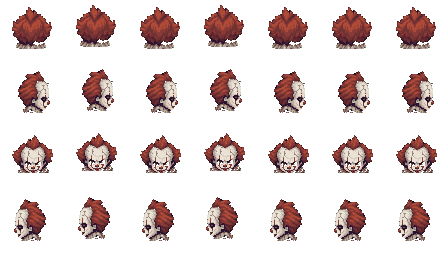
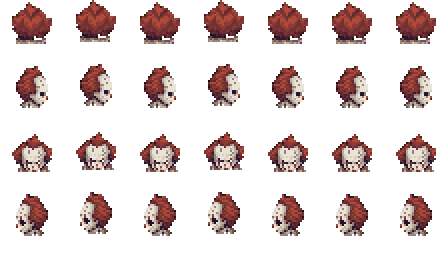
Halloween heads onto vanilla's half-res grid
All ten heads were true-64 px art on a half-res body: 24-28% of their 2x2
blocks carried four different pixels, against 0% in ironhelmet, copperhelmet
and magehat. That, not their footprint, is what made them read wrong.

Measuring the face band separately settled the footprint question: vanilla's
own magehat is 40 px wide against ironhelmet's 24, so a brim or a mane is
allowed to be big, and these heads at 34-42 px sit inside that band. Scaling
the whole box down to 28 px -- the first attempt -- put the FACE at helmet
size instead of the head, and 2 px features did not survive it: the preview
in the job's out/ shows Freddy and Chucky losing their faces at x0.65-0.82.

So the shipped pass is the grid alone, one shared factor per sheet, each
cell anchored on ironhelmet's centre-x and chin line. All ten verify at
0.0% off-grid. widowgown is included; her sheets were complete all along.

armor_head_fit gains --check and --whole-box, and measures box and face
width separately so the next round can touch up faces by hand on a grid
that is finally straight.

diff --git a/tools/armor_head_fit.py b/tools/armor_head_fit.py
@@ -77,14 +77,37 @@ def off_grid(im):
     return bad / total if total else 0.0
 
 
-def widest(im):
-    """Widest content box over all cells -- what the shared factor comes from."""
+#: Share of the content height, measured up from the chin, that counts as
+#: face. Everything above it is hat, hair or hood.
+FACE_BAND = 0.45
+
+
+def cell_width(cell, band=False):
+    """Content width of one cell -- whole box, or only the face band.
+
+    The distinction is the point of this tool. Vanilla's own `magehat` is
+    40 px wide against `ironhelmet`'s 24, so a brim or a mane is ALLOWED to
+    be big; what has to sit at helmet size is the face under it. Taking the
+    factor off the whole box is what crushed Freddy's eyes to nothing in the
+    first run: his hat set the scale, and the face came along for the ride.
+    """
+    px = cell.load()
+    bb = cell.split()[3].getbbox()
+    if not bb:
+        return 0
+    top = bb[3] - int((bb[3] - bb[1]) * FACE_BAND) if band else bb[1]
     out = 0
-    for _, _, box in cells(im):
-        bb = im.crop(box).split()[3].getbbox()
-        if bb:
-            out = max(out, bb[2] - bb[0])
+    for y in range(top, bb[3]):
+        xs = [x for x in range(cell.width) if px[x, y][3] > 0]
+        if xs:
+            out = max(out, max(xs) - min(xs) + 1)
     return out
+
+
+def widest(im, band=False):
+    """Widest cell of the sheet -- what the shared factor comes from."""
+    return max((cell_width(im.crop(box), band) for _, _, box in cells(im)),
+               default=0)
 
 
 def half_res(crop, tw, th):
@@ -119,8 +142,8 @@ def anchors(path):
     return out
 
 
-def fit(im, target_w, ref):
-    wide = widest(im)
+def fit(im, target_w, ref, band=True):
+    wide = widest(im, band)
     if not wide:
         return im, 1.0
     scale = target_w / float(wide)
@@ -155,6 +178,8 @@ def main():
     ap.add_argument("--target-width", type=int, default=DEFAULT_TARGET_W)
     ap.add_argument("--ref", default=VANILLA_REF, help="vanilla head sheet to take anchors from")
     ap.add_argument("--check", action="store_true", help="report only, write nothing")
+    ap.add_argument("--whole-box", action="store_true",
+                    help="take the factor off the whole content box instead of the face band")
     args = ap.parse_args()
 
     if args.out and len(args.files) != 1:
@@ -168,14 +193,14 @@ def main():
         im = Image.open(path).convert("RGBA")
         name = os.path.basename(path)
         if args.check:
-            print("%-28s %5.1f%% off-grid, widest cell %2d px"
-                  % (name, 100 * off_grid(im), widest(im)))
+            print("%-28s %5.1f%% off-grid, box %2d px, face %2d px"
+                  % (name, 100 * off_grid(im), widest(im), widest(im, True)))
             continue
-        out, scale = fit(im, args.target_width, ref)
+        out, scale = fit(im, args.target_width, ref, not args.whole_box)
         dest = args.out or path
         out.save(dest)
-        print("%-28s x%.2f -> %5.1f%% off-grid, widest cell %2d px"
-              % (name, scale, 100 * off_grid(out), widest(out)))
+        print("%-28s x%.2f -> %5.1f%% off-grid, box %2d px, face %2d px"
+              % (name, scale, 100 * off_grid(out), widest(out), widest(out, True)))
 
 
 if __name__ == "__main__":
